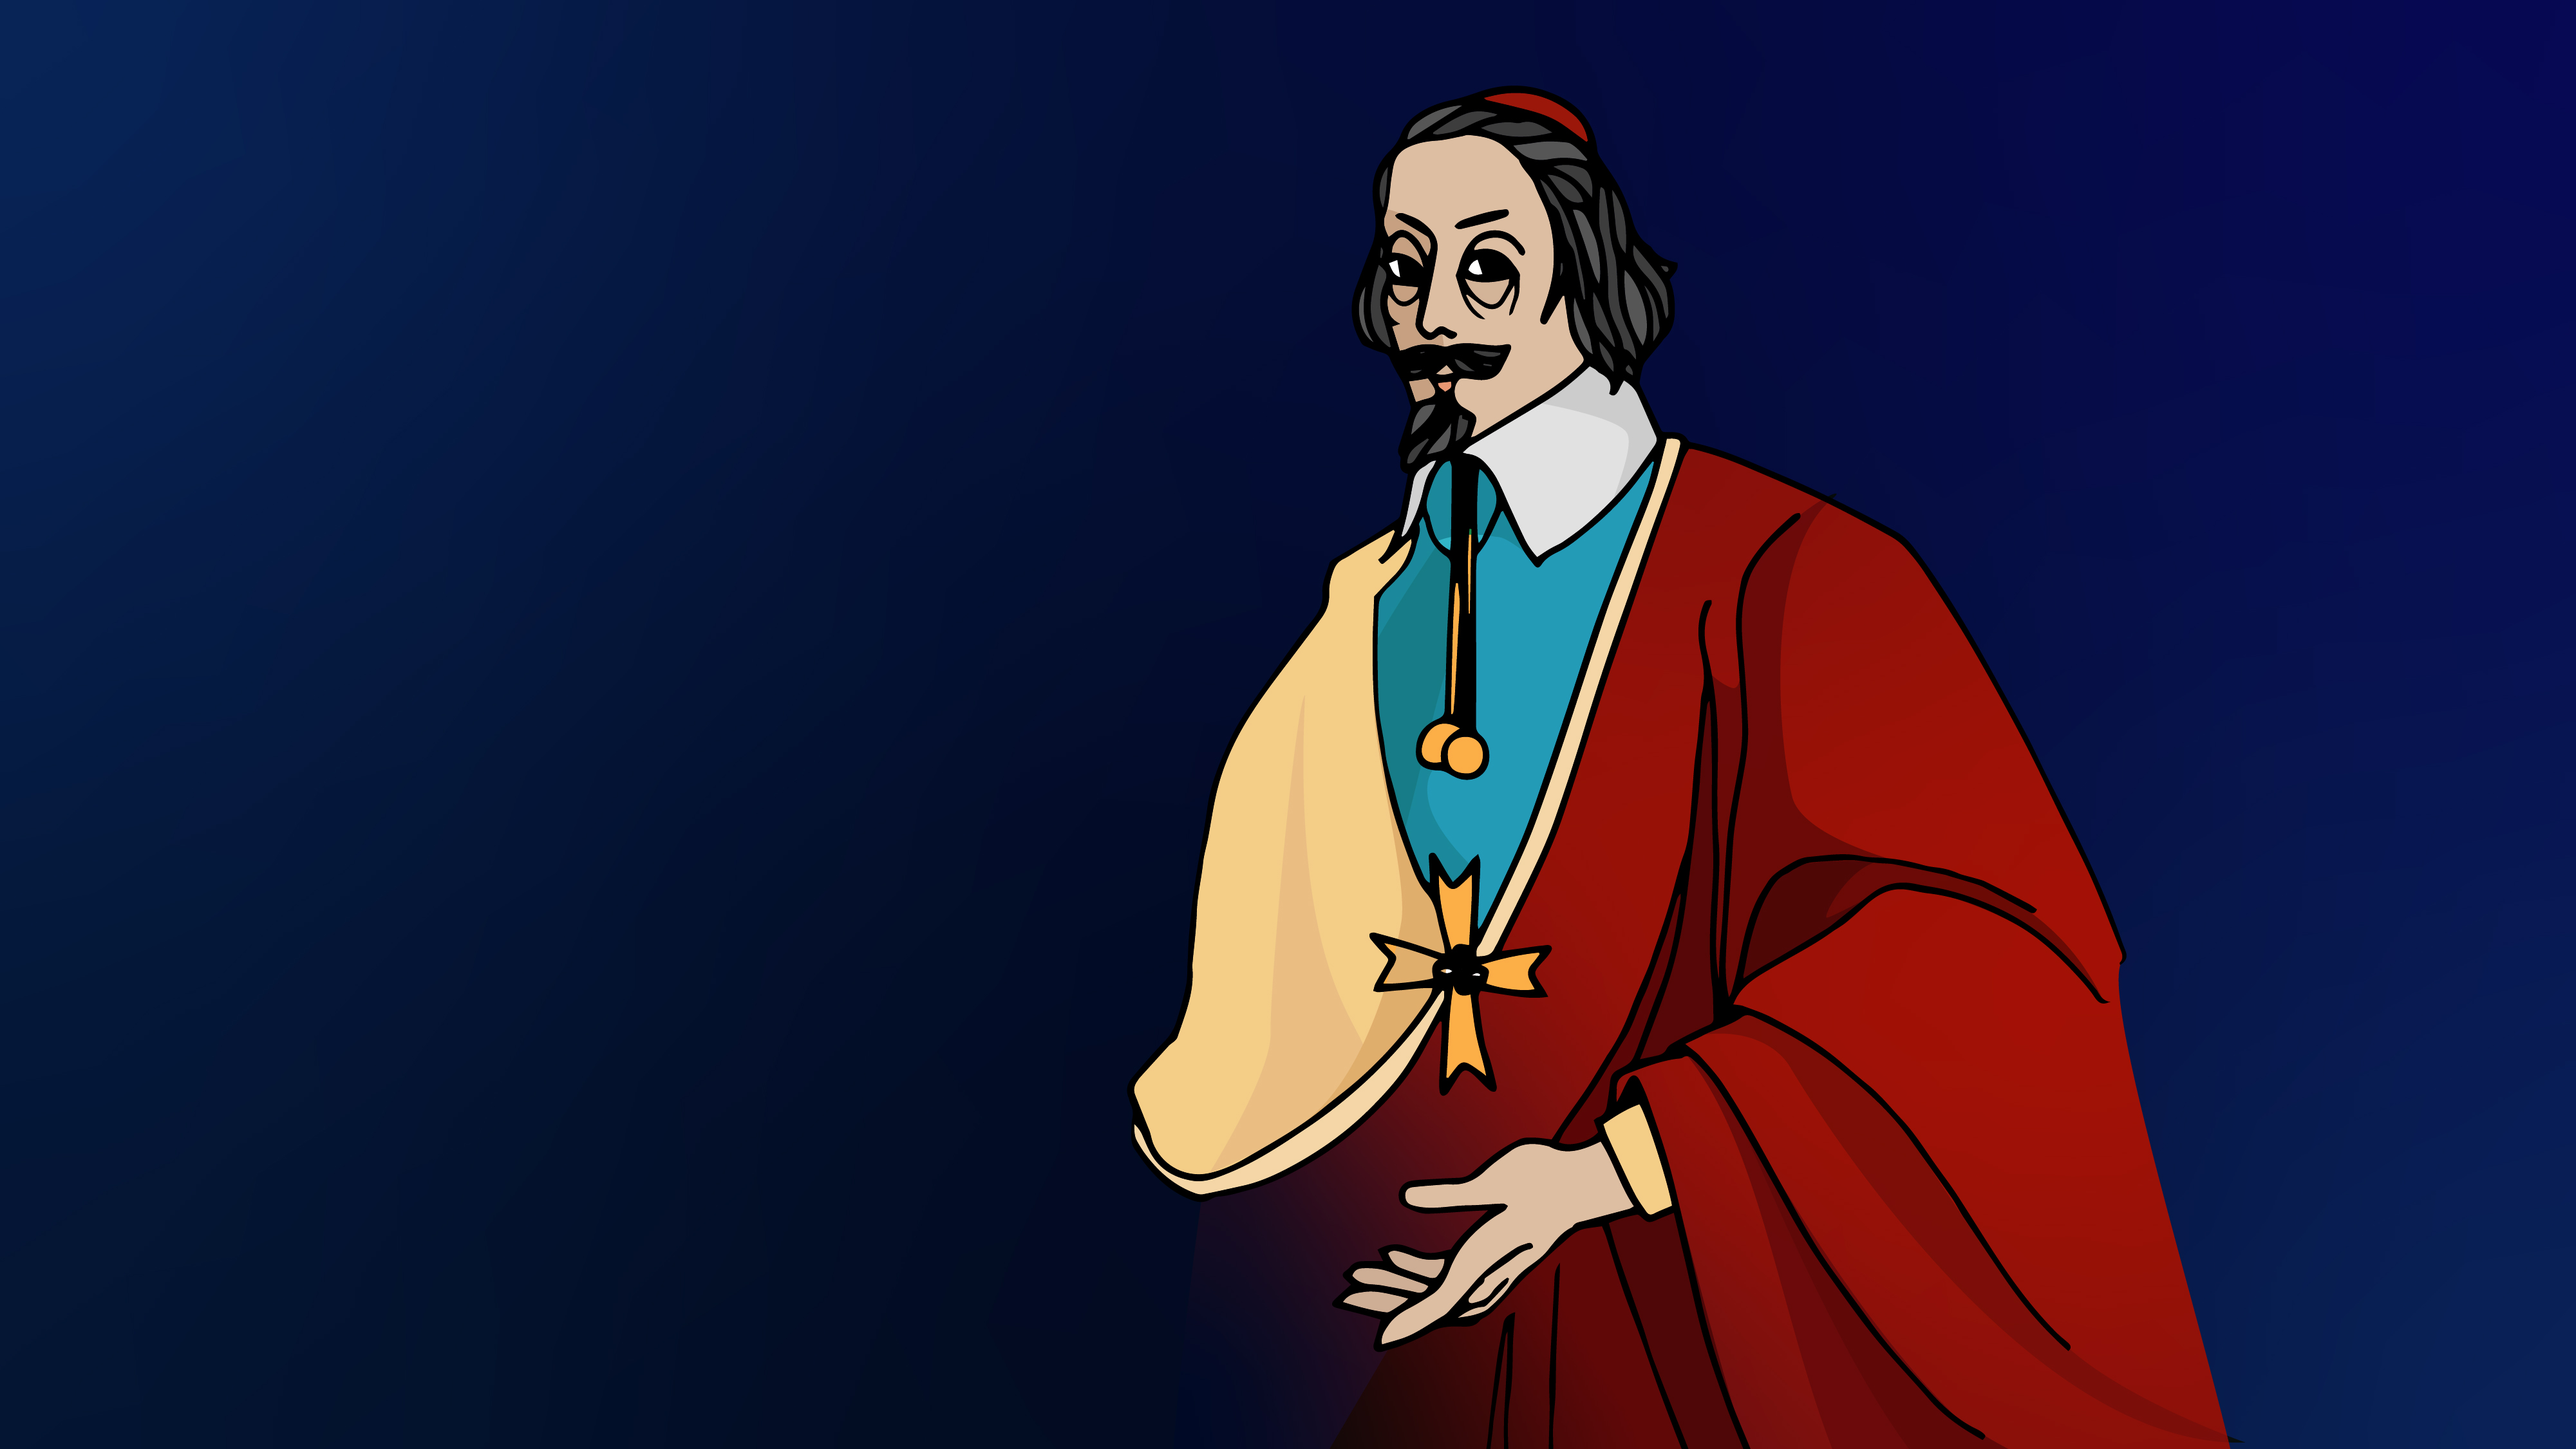
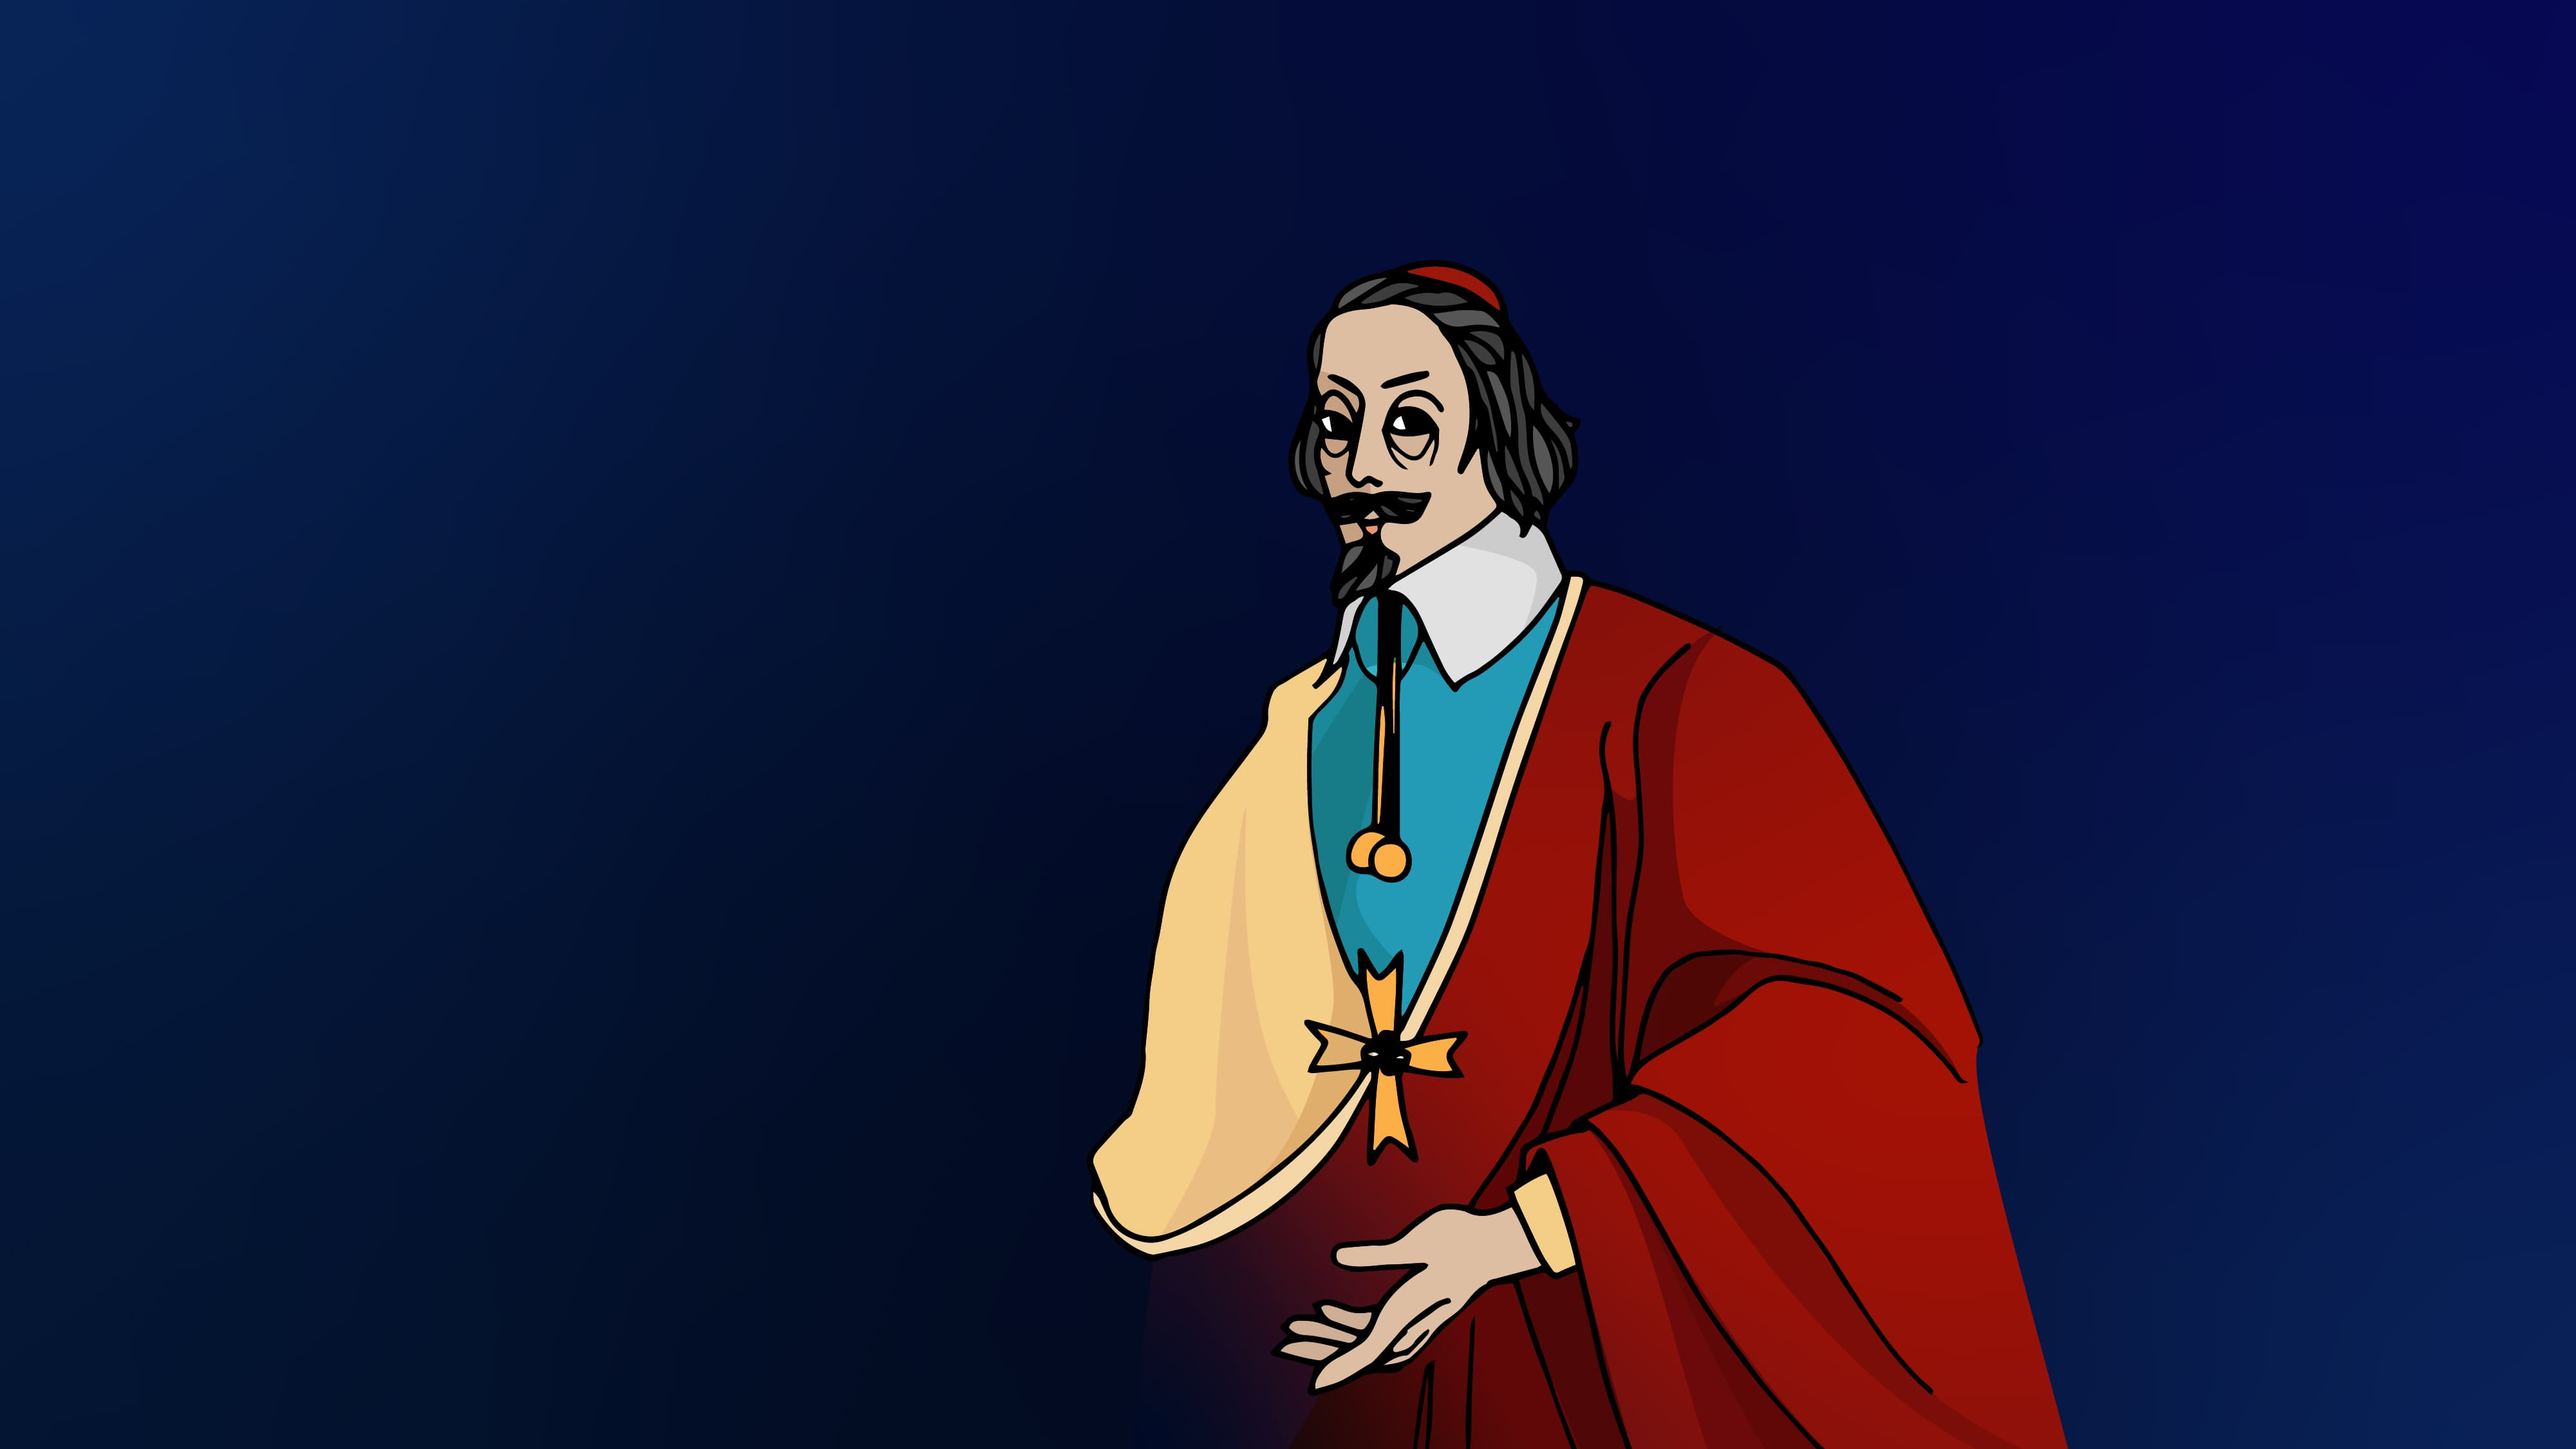
Cinematic

Changed region(s): [[0.4061, 0.0622, 0.8748, 1.0]]

diff --git a/src/components/dom/IntroCinematic/IntroCinematic.js b/src/components/dom/IntroCinematic/IntroCinematic.js
@@ -32,7 +32,7 @@ export default class IntroCinematic extends DomComponent {
     return new Promise((resolve) => {
       delay(() => {
         this.base.classList.add('visible')
-        this.play('voixoff/intro', 0, 30000)
+        this.play('voixoff/intro', 0, 35000)
         this.resolve = resolve
       }, 1000)
     })
@@ -40,14 +40,16 @@ export default class IntroCinematic extends DomComponent {
 
   play (path, number, time) {
     let zoom
-    if (number === 0) zoom = [1, 1.15]
-    else if (number === 1) zoom = [1.15, 1]
+    if (number === 0) zoom = [1, 1.1]
+    else if (number === 1) zoom = [1.2, 1]
     else zoom = [1, 1.45]
 
     anime({
-      targets: this.container,
+      targets: this['item' + number],
       duration: time,
       scale: zoom,
+      translateX: ['-50%', '-50%'],
+      translateY: ['-50%', '-50%'],
       delay: 1000,
       easing: 'easeInOutQuad'
     })

diff --git a/src/state/store.js b/src/state/store.js
@@ -62,7 +62,7 @@ export default createStore({
   debug: isDev ? 0 : 0,
   useGui: isDev ? 1 : 0, // use datGui
   displayStats: isDev ? 1 : 0, // use stats (fps, drawcalls, ...)
-  skipCarousel: isDev ? 1 : 0,
+  skipCarousel: isDev ? 0 : 0,
   skipLoading: isDev ? 1 : 0,
   skipTuto: isDev ? 1 : 1,
 
